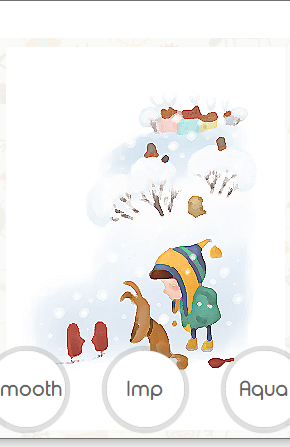
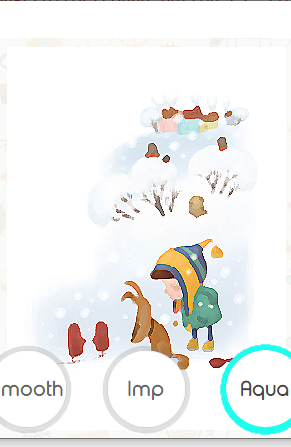
UI - buttons hover and press collors

diff --git a/UI/Widgets/FiltersWidget.cpp b/UI/Widgets/FiltersWidget.cpp
@@ -17,9 +17,39 @@ static const QColor c_frame_pen_color = QColor(Qt::white);
 static const int c_frame_pen_width = 3;
 static const int c_image_top_margin = 20;
 static const int c_button_width = 100;
-static const char* c_filter_button_style_str = "QPushButton{ background-image: url(:/ImageEditor/round_button); background-color: rgba(255, 255, 255, 0); color: rgb(100, 100, 100); font-size: 21px; font-family: Typo Round Regular Demo;}";
-static const char* c_menu_button_style_str = "QPushButton{ background-image: url(:/ImageEditor/round_button_menu); background-color: rgba(255, 255, 255, 0);}";
-static const char* c_undo_button_style_str = "QPushButton{ background-image: url(:/ImageEditor/button_undo); background-color: rgba(255, 255, 255, 0);}";
+static const char* c_filter_button_style_str = "QPushButton{ "
+"background-image: url(:/ImageEditor/round_button);"
+"background-color: rgba(255, 255, 255, 0); "
+"color: rgb(100, 100, 100); "
+"font-size: 21px; "
+"font-family: Typo Round Regular Demo;}";
+
+static const char* c_hover_str_arr[] = {
+    "QPushButton:hover{background-image: url(:/ImageEditor/round_button_r); color: rgb(70, 70, 70);}",
+    "QPushButton:hover{background-image: url(:/ImageEditor/round_button_y); color: rgb(70, 70, 70);}",
+    "QPushButton:hover{background-image: url(:/ImageEditor/round_button_g); color: rgb(70, 70, 70);}",
+    "QPushButton:hover{background-image: url(:/ImageEditor/round_button_b); color: rgb(70, 70, 70);}",
+    "QPushButton:hover{background-image: url(:/ImageEditor/round_button_v); color: rgb(70, 70, 70);}" };
+
+static const char* c_pressed_str_arr[] = { 
+    "QPushButton:pressed{background-image: url(:/ImageEditor/round_button_r); color: rgb(70, 70, 70);}", 
+    "QPushButton:pressed{background-image: url(:/ImageEditor/round_button_y); color: rgb(70, 70, 70);}",
+    "QPushButton:pressed{background-image: url(:/ImageEditor/round_button_g); color: rgb(70, 70, 70);}", 
+    "QPushButton:pressed{background-image: url(:/ImageEditor/round_button_b); color: rgb(70, 70, 70);}", 
+    "QPushButton:pressed{background-image: url(:/ImageEditor/round_button_v); color: rgb(70, 70, 70);}" };
+
+static const char* c_menu_button_style_str = "QPushButton{ background-image: "
+"url(:/ImageEditor/round_button_menu); "
+"background-color: rgba(255, 255, 255, 0);}"
+"QPushButton:hover{background-image: url(:/ImageEditor/round_button_menu_hover); color: rgb(70, 70, 70);} "
+"QPushButton:pressed{background-image: url(:/ImageEditor/round_button_menu_hover); color: rgb(70, 70, 70); }";
+
+static const char* c_undo_button_style_str = "QPushButton{ background-image: "
+"url(:/ImageEditor/button_undo); "
+"background-color: rgba(255, 255, 255, 0);}"
+"QPushButton:hover{background-image: url(:/ImageEditor/button_undo_hover); color: rgb(70, 70, 70);} "
+"QPushButton:pressed{background-image: url(:/ImageEditor/button_undo_hover); color: rgb(70, 70, 70);}";
+
 static const char* c_background_image_str = ":/ImageEditor/background";
 
 namespace ImageEditor::UI
@@ -130,6 +160,7 @@ namespace ImageEditor::UI
         filter_buttons_widget->setLayout(filter_buttons_layout);
 
         // bind button with controls, add to layout
+        int num = 0;
         auto buttons_it = controls->find(Modules::FILTER_BUTTON_TAG);
         if (buttons_it != controls->end())
         {
@@ -147,7 +178,10 @@ namespace ImageEditor::UI
                 button->setMaximumHeight(button_width);
                 button->setMaximumWidth(button_width);
                 button->setFlat(true);
-                button->setStyleSheet(c_filter_button_style_str);
+                int index = num % std::size(c_hover_str_arr);
+                QString pressed(c_pressed_str_arr[index]);
+                QString hover(c_hover_str_arr[index]);
+                button->setStyleSheet(QString(c_filter_button_style_str) + hover + pressed);
               
                 // bind button with control
                 const auto ui_command = new UICommand(this, control);
@@ -158,6 +192,7 @@ namespace ImageEditor::UI
                 filter_buttons_layout->addWidget(button);
 
                 buttons_it++;
+                num++;
             }
         }
 
